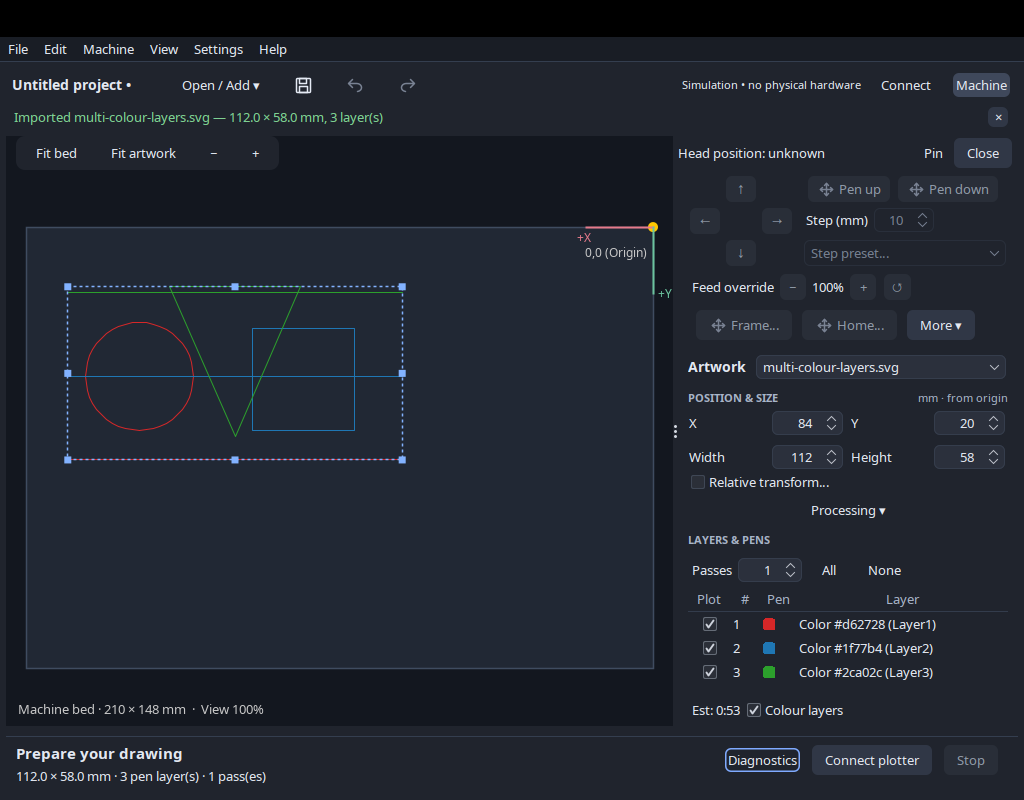
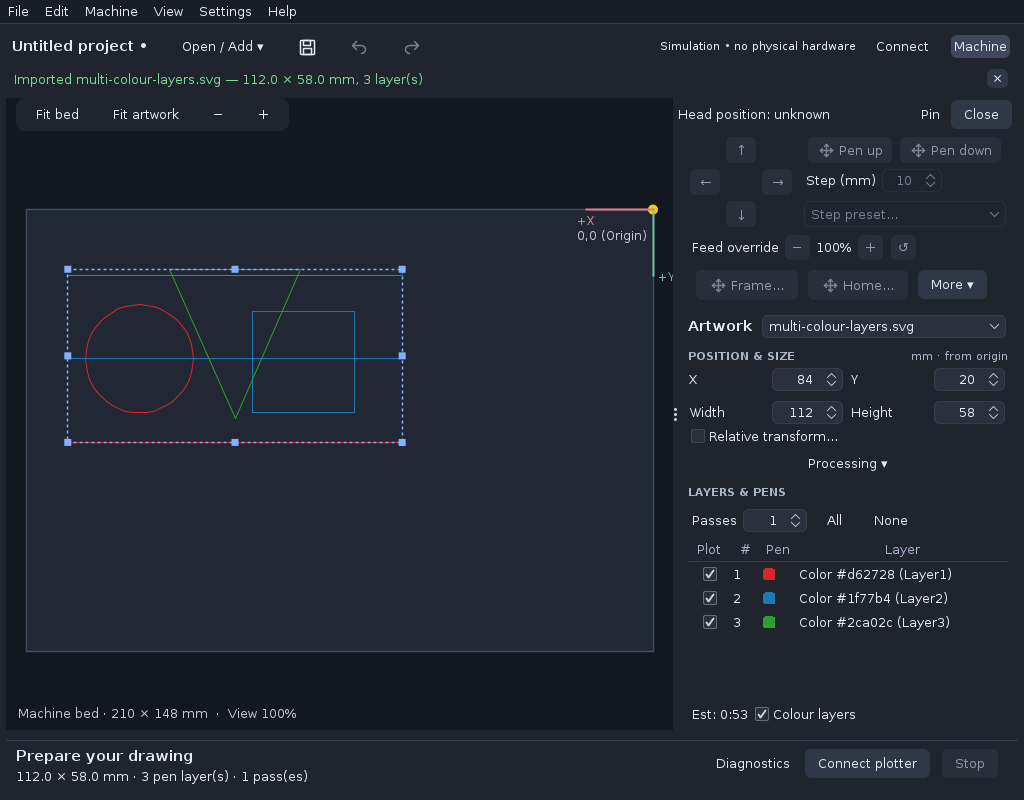
Audit RC11 public docs and refresh workspace screenshots

diff --git a/docs/PROJECT_DIGEST.md b/docs/PROJECT_DIGEST.md
@@ -16,7 +16,7 @@ The project has moved past core capability discovery. The active challenge is ad
 - `docs/FIRST_PLOT.md` — shortest safe path for a new tester.
 - `docs/USER_GUIDE.md` — full operator guide.
 - `docs/TROUBLESHOOTING.md` — serial, GRBL, launch, and first-run failure help.
-- `docs/KNOWN_GOOD_SETUPS.md` — evidence-based compatibility matrix; currently includes Uwe's Uuna Tek A1 H as working, with detailed acceptance fields still pending.
+- `docs/KNOWN_GOOD_SETUPS.md` — evidence-based compatibility matrix; includes a maintainer-reported Uuna Tek A1 H setup, with detailed acceptance fields still pending.
 - `docs/TESTING.md` — automated coverage inventory and manual acceptance scripts.
 - `docs/USABILITY.md` — scoped Beginner Usability milestone, now closed; novice validation remains an adoption-evidence path.
 - `docs/TRACER_CAPTURE_IMPORT.md` — future Tracer JSON capture handoff contract; documents pressure-bearing gesture import without claiming current implementation.
@@ -38,10 +38,11 @@ The Maven reactor contains eight modules:
 - `cli` — headless SVG/image batch conversion and optional G-code output.
 - `app` — Swing GUI, orchestration, persistence, recovery, history, visualization, and help surface.
 
-RC10 completes independent GUI/workflow fixes and retains pen-aware filling,
-coverage previews and calibration profiles. The local build passes 552 Java tests. Release CI verifies
+RC11 stabilizes manual controls and clarifies disabled actions while retaining
+RC10's workflow fixes, pen-aware filling, coverage previews and calibration
+profiles. Its release notes record 554 passing Java tests. Release CI verifies
 Java 17/21, GUI workflows and native Windows/Linux packaging; see the
-[RC10 record](release-results/1.0.0-rc.10.md) for evidence and limitations.
+[RC11 record](release-results/1.0.0-rc.11.md) for evidence and limitations.
 
 ## Roadmap state
 
@@ -54,9 +55,9 @@ Active product roadmap:
 
 Active adoption roadmap:
 
-- Native Windows MSI/Linux DEB releases and portable GUI/CLI JARs are published through GitHub Releases; RC10 is the workflow-verification candidate.
+- Native Windows MSI/Linux DEB releases and portable GUI/CLI JARs are published through GitHub Releases; RC11 is the current candidate.
 - Mock first-plot video, screenshots, offline help and SVG samples ship with the documented workflow.
-- Windows 11 / iDraw H A1 RC2 hardware success is recorded; changed RC10 behavior still needs physical confirmation.
+- Windows 11 / iDraw H A1 RC2 hardware success is recorded; changed RC11 behavior still needs physical confirmation.
 - External tester recruitment, structured novice evidence and additional known-good setups remain adoption work.
 
 ## Documentation health
@@ -72,16 +73,17 @@ Risks:
 
 - There is a lot of documentation. For a new tester, README → FIRST_PLOT must stay the obvious path; everything else should remain secondary.
 - The adoption roadmap contains issue numbers and release details that can drift unless checked after GitHub changes.
-- `docs/KNOWN_GOOD_SETUPS.md` now has Uwe's Uuna Tek A1 H working report, but it should not be marketed as broad compatibility evidence until the detailed acceptance fields and external entries land.
-- Current UI captures are available in [the screenshot gallery](images/README.md).
-  The mock video is available; external novice evidence remains pending.
+- `docs/KNOWN_GOOD_SETUPS.md` has a maintainer-reported Uuna Tek A1 H setup, but it should not be marketed as broad compatibility evidence until detailed acceptance fields and external entries land.
+- RC11 workspace captures and RC10 supporting views are available in
+  [the screenshot gallery](images/README.md). The mock video is available;
+  external novice evidence remains pending.
 - The user guide is comprehensive, but long. If adoption reaches broader public testing, split it into focused pages only after real users show where they get lost.
 - Tracer JSON capture is now documented as a future pressure-bearing import path. Keep it out of current user instructions until implemented and tested.
 
 ## Recommended next work
 
-1. Record human desktop and real-hardware acceptance for `1.0.0-rc.2`.
-   - Fill `release-results/` using the release checklist.
+1. Record human desktop and real-hardware acceptance for `1.0.0-rc.11`.
+   - Add a physical test record using the release checklist.
    - Fill in the remaining fields for the Uuna Tek A1 H entry in `docs/KNOWN_GOOD_SETUPS.md`.
    - Keep hardware readiness language conservative until detailed acceptance evidence exists.
 
@@ -95,12 +97,10 @@ Risks:
    - Treat results as adoption/release evidence, not as a blocker for the already-closed usability milestone.
    - Update `docs/TESTING.md`, `docs/USER_GUIDE.md`, release evidence, and roadmap candidates after the study.
 
-4. Produce the missing adoption assets.
-   - Done: the first committed SVG sample gallery exists for simple line,
-     hatch/fill, multi-colour/layer, and text-outline practice.
-   - Next: one-minute demo GIF/video of launch → guided mock plot → export/plot result.
-   - Done: refreshed welcome, workspace, layer settings, and geometry screenshots.
-   - Later: image/vectorize gallery entries only after validation evidence exists.
+4. Review adoption visuals for RC11.
+   - Done: re-capture empty-document and machine-control states from RC11 CI.
+   - Review the one-minute mock walkthrough against the current workflow.
+   - Add image/vectorize gallery entries after validation evidence exists.
 
 5. Keep roadmap maintenance strict.
    - `ROADMAP.md`: Now / current status only.

diff --git a/ROADMAP.md b/ROADMAP.md
@@ -15,12 +15,14 @@ GRBL cancellation/error handling. Its machine-aware preview also shows ordered
 layers with source pen colours, visibility, and physical nib widths that remain
 constant when artwork is scaled.
 
-Windows/Linux installers are published through GitHub Releases. RC10 verifies and completes independent GUI/workflow fixes, building on RC9’s pen-aware filling. Native installation,
-upgrade, bundled-runtime launch, and persisted state checks pass. Uwe reports
-Windows 11 / iDraw H A1 plotting, stop/alarm recovery, limits and calibration
-working. Remaining desktop checks and post-RC2 hardening are tracked separately. See the
-[current acceptance record](docs/release-results/1.0.0-rc.10.md). Beginner usability
-is closed as described in [`docs/USABILITY.md`](docs/USABILITY.md).
+Windows/Linux installers are published through GitHub Releases. RC11 adds stable
+manual-control layout and clearer unavailable-action feedback to the RC10
+workflow fixes and RC9 pen-aware filling. Native installation, upgrade,
+bundled-runtime launch, and persisted state checks pass in release CI. The
+maintainer reported Windows 11 / iDraw H A1 plotting, stop/alarm recovery,
+limits and calibration on RC2; the changed RC11 behavior still needs physical
+acceptance. See the [current acceptance record](docs/release-results/1.0.0-rc.11.md).
+Beginner usability is closed as described in [`docs/USABILITY.md`](docs/USABILITY.md).
 
 ## Delivery plan
 
@@ -30,7 +32,7 @@ is closed as described in [`docs/USABILITY.md`](docs/USABILITY.md).
 | 2 | Roadmap reconciliation | Active plan is concise; historical phase diary is explicitly deprecated and archived | Complete |
 | 3 | Project/session persistence | `.gantry` files preserve commands, placement, selected layers, passes, and source/vectorizer provenance; command JSON is clearly a flattened interchange export | Complete |
 | 4 | Undo/recovery | Multi-level undo/redo covers model edits; dirty state, close protection, and recovery autosave protect unsaved work | Complete for model/project state and artwork placement edits |
-| 5 | Release readiness | Non-SNAPSHOT version, repeatable release artifacts, checksums, and a recorded acceptance template/workflow | RC2 published; automated installer checks pass; Windows 11 / iDraw H A1 hardware report recorded; remaining desktop checks and post-RC2 hardening pending |
+| 5 | Release readiness | Non-SNAPSHOT version, repeatable release artifacts, checksums, and a recorded acceptance template/workflow | RC11 published; automated installer checks pass; RC2 Windows 11 / iDraw H A1 hardware report recorded; RC11 physical and external-user acceptance pending |
 | 6 | Focused polish | Full SVG colour discovery for hatch overrides, accurate travel accounting/labeling, and vectorizer crop restoration | Complete |
 | 7 | CLI batch artifacts | Post-import optimize, shared config/station mapping, and optional G-code output work headlessly with end-to-end tests | Complete |
 | 8 | Exact-job history | Re-plot uses an immutable prepared-job snapshot; recent successful jobs persist and can be reopened/replotted | Complete |

diff --git a/docs/ADOPTION_ROADMAP.md b/docs/ADOPTION_ROADMAP.md
@@ -34,7 +34,7 @@ Repository evidence at the start of this adoption plan:
   validation rather than a product-roadmap blocker
 
 The main adoption gap is not core capability. It is confidence: can someone who
-is not Uwe download Gantry, understand the safe path, complete a mock plot, and
+is not the maintainer download Gantry, understand the safe path, complete a mock plot, and
 then use either exported G-code or a real GRBL connection without verbal coaching?
 
 ## Positioning
@@ -101,7 +101,7 @@ and notes.
 Prove that one person other than the primary developer can get through Gantry
 with minimal hand-holding.
 
-This can be Uwe plus one external tester, or two external testers if a stricter
+This can be the maintainer plus one external tester, or two external testers if a stricter
 bar is desired.
 
 ### Product and code work
@@ -151,7 +151,7 @@ Suggested outreach text:
 
 ### Exit criteria
 
-- One person other than Uwe launches a release artifact without cloning/building.
+- One person other than the maintainer launches a release artifact without cloning/building.
 - They complete the guided mock practice.
 - Ideally they complete one real plot or produce usable G-code.
 - At least five concrete friction points are captured.
@@ -224,7 +224,7 @@ Suggested public text:
 - 10 people launch Gantry.
 - At least 7 complete the guided mock practice.
 - At least 3 complete a real plot or usable G-code export.
-- At least 5 concrete issues or feedback notes come from people other than Uwe.
+- At least 5 concrete issues or feedback notes come from people other than the maintainer.
 - README and troubleshooting reflect actual support questions.
 - No severe safety issue appears.
 
@@ -388,7 +388,7 @@ external people, or media production.
 8. **Done:** Add serial-permission and GRBL-alarm troubleshooting.
 9. **Done:** Publish a reproducible one-minute mock demo video — originally tracked in
    [#18](https://github.com/utrost/Gantry/issues/18).
-10. **Started:** Start the compatibility matrix from real tester reports. Uwe's
+10. **Started:** Start the compatibility matrix from real tester reports. The maintainer's
     Uuna Tek A1 H plotter is recorded as working; detailed acceptance evidence
     and external entries are still needed.
 
@@ -396,7 +396,7 @@ Additional support hardening now tracked in
 [#17](https://github.com/utrost/Gantry/issues/17).
 
 Native MSI/DEB candidates and portable JARs are published. Current delivery and
-validation are recorded in the [RC10 record](release-results/1.0.0-rc.10.md).
+validation are recorded in the [RC11 record](release-results/1.0.0-rc.11.md).
 
 ## Operating rhythm
 

diff --git a/docs/DOCUMENTATION_STATUS.md b/docs/DOCUMENTATION_STATUS.md
@@ -1,8 +1,13 @@
-# Documentation status — RC10, 2026-11-14
+# Documentation status — RC11, 2026-11-15
 
-The active guides, offline installer help, screenshots and mock walkthrough have
-been reviewed against the RC10 implementation. Current validation is recorded in
-[the RC10 release record](release-results/1.0.0-rc.10.md).
+The public entry points, release links, offline help links and screenshot
+references were checked against RC11. Current validation is recorded in
+[the RC11 release record](release-results/1.0.0-rc.11.md). A full human review of
+every operator-guide instruction remains open.
+The core workspace-state captures were refreshed from the successful RC11 CI
+GUI artifact on 2026-11-15. Import, historical-review, setup, settings and fill
+captures and the mock walkthrough were generated from RC10 on 2026-11-14; they
+do not show RC11's changed control states.
 
 | Area | Current documentation |
 |---|---|
@@ -10,12 +15,12 @@ been reviewed against the RC10 implementation. Current validation is recorded in
 | Daily operation | USER_GUIDE, SAMPLE_GALLERY, TROUBLESHOOTING; Dark default and visible disabled actions |
 | Pen-aware filling | Effective width/overlap, physical scale, boundary inset, coverage preview, profiles and calibration |
 | Developer reference | ARCHITECTURE, TESTING, REFACTORING and PROJECT_DIGEST |
-| Release and adoption | ROADMAP, ADOPTION_ROADMAP, RELEASE_CHECKLIST and RC10 notes/results |
-| Current visuals | All published PNGs under images/ regenerated from actual Swing components; settings and fill views added |
+| Release and adoption | ROADMAP, ADOPTION_ROADMAP, RELEASE_CHECKLIST and RC11 notes/results |
+| Visuals | Core workspace states refreshed from RC11 CI; other views and mock video remain RC10 captures |
 | Historical evidence | Dated prior release/test records retain their original observations; they are not current acceptance claims |
 | Future work | TRACER_CAPTURE_IMPORT remains a proposed handoff contract |
 
 The [image gallery](images/README.md) describes provenance and reproduction.
 The mock demo contains no hardware motion. Earlier Windows 11 / iDraw H A1
-reports do not establish physical acceptance of RC10. Pen/paper swatch evaluation,
+reports do not establish physical acceptance of RC11. Pen/paper swatch evaluation,
 external novice/expert studies and broader hardware coverage require operators.

diff --git a/docs/KNOWN_GOOD_SETUPS.md b/docs/KNOWN_GOOD_SETUPS.md
@@ -10,12 +10,12 @@ example, a pen-plot acceptance run does not prove watercolor station behavior.
 ## Windows 11 — iDraw H A1 (RC2)
 
 - Date: 2026-10-04
-- Tester: Uwe (direct user report)
+- Tester: the maintainer (direct user report)
 - Gantry: published `v1.0.0-rc.2`, Windows x64 MSI, bundled Java 21
 - Operating system: Windows 11
 - Plotter: iDraw H A1
 - Reported working: physical plotting, stop/alarm recovery, limits, calibration.
-- Result: passed for those workflows on this configuration, as reported by Uwe.
+- Result: passed for those workflows on this configuration, as reported by the maintainer.
 - Not individually reported: serial enumeration/connect-disconnect, homing/jog,
   framing, offline-help/browser shortcuts, standard-user install context, and
   watercolor station/wet/refill behavior. Controller firmware, baud rate, origin,
@@ -58,14 +58,14 @@ example, a pen-plot acceptance run does not prove watercolor station behavior.
 - Linked release result or issue:
 ```
 
-## Uwe primary setup — Uuna Tek A1 H plotter
+## Maintainer-reported setup — Uuna Tek A1 H plotter
 
-Gantry has been reported working on this hardware by Uwe. This is the first
+Gantry has been reported working on this hardware by the maintainer. This is the first
 real-hardware compatibility entry, but the detailed release-acceptance checklist
 still needs to be filled before making broad hardware-readiness claims.
 
 - Date: 2026-08-17
-- Tester: Uwe
+- Tester: the maintainer
 - Gantry version or commit: `29f5c03`
 - Operating system: Linux 6.8.0-136-generic x86_64 GNU/Linux
 - Java version: OpenJDK 17.0.19
@@ -87,7 +87,7 @@ still needs to be filled before making broad hardware-readiness claims.
   - [ ] small real pen plot
   - [ ] watercolor station dry visit
   - [ ] watercolor wet/refill job
-- Result: Gantry works on this hardware per Uwe's report.
+- Result: Gantry works on this hardware per the maintainer's report.
 - Caveats: detailed acceptance evidence, controller/GRBL version, travel,
   origin, pen mode, and exact tested workflow list are still pending.
 - Linked release result or issue: [#15](https://github.com/utrost/Gantry/issues/15)

diff --git a/docs/images/README.md b/docs/images/README.md
@@ -1,10 +1,14 @@
-# Current Gantry screenshots — RC10
+# Gantry screenshots — RC11 workspace, RC10 supporting views
 
-All current PNGs in this directory were regenerated on 2026-11-14 from actual
-Swing components on Linux / Java 17. Dark is the default; Light remains available.
-Canvas appearance is independent. The captures use isolated mock profiles; no
-physical plotter was connected. Native window borders are excluded where root
-panes are captured. Nothing here is an AI-generated UI mockup.
+The core `workspace/` state images were refreshed on 2026-11-15 from the successful
+[RC11 Java 21 GUI acceptance artifact](https://github.com/utrost/Gantry/actions/runs/43643382775)
+on Ubuntu. Import, historical-review, saved-result, setup, settings and fill
+images were generated on 2026-11-14
+from actual RC10 Swing components on Linux / Java 17. Dark is the default;
+Light remains available. Canvas appearance is independent. The captures use
+isolated mock profiles; no physical plotter was connected. Native window borders
+are excluded where root panes are captured. Nothing here is an AI-generated UI
+mockup. The RC10 supporting views do not show RC11's changed control states.
 
 ## Daily workspace
 
@@ -54,7 +58,7 @@ mvn package
 ./scripts/record-demo.sh dist/demo
 ```
 
-The capture script refreshes all current screenshots. The demo script requires
+The capture script refreshes the screenshot set. The demo script requires
 ffmpeg and produces the captioned one-minute mock video. Both use temporary
 profiles and application rendering rather than desktop capture. Inspect generated
 images before committing. The full scale/density acceptance matrix is separate:

diff --git a/docs/release-results/1.0.0-rc.11.md b/docs/release-results/1.0.0-rc.11.md
@@ -1,0 +1,28 @@
+# RC11 validation — 2026-11-15
+
+RC11 is a published prerelease. It stabilizes the manual-control layout and
+disables Frame and plot-review actions when the required artwork is absent.
+See the [release notes](../release-notes/1.0.0-rc.11.md) and
+[published assets](https://github.com/utrost/Gantry/releases/tag/v1.0.0-rc.11).
+
+## Automated evidence
+
+- The [CI run](https://github.com/utrost/Gantry/actions/runs/43643382775)
+  completed successfully on the RC11 commit `c630f27`; the release notes record
+  554 passing Java tests and desktop mock-workflow/regression coverage.
+- The [release-installer run](https://github.com/utrost/Gantry/actions/runs/43643388431)
+  completed successfully on the same commit. It builds native Windows and Linux
+  packages and runs installation, upgrade and installed-workflow checks.
+- The published prerelease contains a Windows x64 MSI, Linux x64 DEB, portable
+  GUI and CLI JARs, offline documentation ZIP, standalone README, license,
+  version file and checksums.
+
+## Acceptance limits
+
+- The automated GUI workflow uses a mock plotter. It does not establish physical
+  Windows 11 / iDraw H A1 acceptance of the RC11 control changes.
+- The core workspace screenshots were refreshed from the RC11 GUI CI artifact
+  on 2026-11-15. Supporting screenshots and the mock walkthrough were captured
+  from RC10 on 2026-11-14, and do not show RC11's changed control states.
+- Windows installers remain unsigned. External novice/expert testing, broader
+  hardware coverage and physical pen/paper evaluation remain open.

diff --git a/release-results/1.0.0-rc.2.md b/release-results/1.0.0-rc.2.md
@@ -68,7 +68,7 @@ migration from earlier unpublished machine-wide CI installers is not claimed.
 
 ## Reported physical acceptance (2026-10-04)
 
-Uwe reports RC2 working on Windows 11 with an iDraw H A1, explicitly confirming
+the maintainer reports RC2 working on Windows 11 with an iDraw H A1, explicitly confirming
 stop/alarm recovery, limits, calibration, and actual plotting. This is
 user-reported acceptance for that configuration, without attached machine logs.
 See the [known-good setup](../docs/KNOWN_GOOD_SETUPS.md) for scope and unreported
@@ -79,7 +79,7 @@ checks. Post-RC2 safety changes are not covered by this report.
 - [ ] Windows 10/11 desktop menu/browser launch, standard-user installation and guided first plot.
 - [ ] Ubuntu desktop menu launch and guided first plot.
 - [ ] Mouse/keyboard SVG/raster import, mock plot and G-code export in the installed GUI.
-- [x] Windows 11 / iDraw H A1: stop/alarm recovery, limits, calibration, actual plotting (Uwe report).
+- [x] Windows 11 / iDraw H A1: stop/alarm recovery, limits, calibration, actual plotting (the maintainer report).
 - [ ] Individually record serial enumeration, connect/disconnect, homing/jog,
   framing, pen-lift behavior and travel speed; these were not itemized in the report.
 - [ ] Watercolor dry/wet/refill checks if that hardware readiness is claimed.

diff --git a/docs/RELEASE_CHECKLIST.md b/docs/RELEASE_CHECKLIST.md
@@ -3,7 +3,8 @@
 ## Build and stage a candidate
 
 1. Use `MAJOR.MINOR.PATCH-rc.N` (RC 1–98) or `MAJOR.MINOR.PATCH`. Preserve
-   published tags. This delivery targets `1.0.0-rc.10`.
+   published tags. For the current candidate and evidence, see
+   [the documentation status](DOCUMENTATION_STATUS.md).
 2. Write `docs/release-notes/<version>.md` and a truthful acceptance record in
    `docs/release-results/<version>.md`.
 3. Run `python scripts/test_release.py` and
@@ -119,7 +120,7 @@ hashes are attached to CI as `validation-<runner>` artifacts. Inspect
 `upgrade-result.json`, `seed.json`, and `verify.json`; a green unit test suite
 alone does not establish that an upgrade was attempted or completed.
 
-## RC10 workflow and documentation checks
+## RC10 workflow and documentation checks (historical)
 
 - Refresh every current screenshot in `docs/images`, settings views, the mock
   walkthrough and offline help; keep historical evidence dated.

diff --git a/docs/release-results/gui-workflow-implementation.md b/docs/release-results/gui-workflow-implementation.md
@@ -50,7 +50,7 @@ Additional regression tests cover manual cancellation races, durable disconnecte
 
 - Windows 11 native installer and 100%/125%/150%/200% DPI checks.
 - iDraw H A1 checks of changed jog, focus-loss, Stop, homing, calibration and disconnect interactions.
-- Uwe's expert workflow evaluation against the original benchmark.
+- the maintainer's expert workflow evaluation against the original benchmark.
 - The five-participant novice study tracked by #16.
 
 No physical hardware acceptance, novice-study result, native Windows acceptance, or new published installer is claimed by this record. Keep #54 and #16 open until the corresponding evidence exists. The previous audit evidence bundle remains local.

diff --git a/docs/release-notes/1.0.0-rc.11.md b/docs/release-notes/1.0.0-rc.11.md
@@ -16,3 +16,4 @@ Windows x64 MSI and Linux x64 DEB include Java. Portable GUI/CLI JARs, offline d
 Local validation: 554 Java tests passed; the desktop mock workflow verifies empty-document action availability and recovery after loading artwork. Regression tests cover stable canvas space during manual operations and busy-control transitions. Release CI runs native Windows/Linux installation and upgrade checks from RC10.
 
 Physical Windows 11/iDraw H A1 verification of the changed interactions remains outstanding; mock checks do not establish hardware acceptance.
+See the [RC11 validation record](../release-results/1.0.0-rc.11.md) for CI links and the remaining visual and manual checks.

diff --git a/docs/release-results/1.0.0-rc.10.md b/docs/release-results/1.0.0-rc.10.md
@@ -40,6 +40,6 @@ These issues remain open: [#16](https://github.com/utrost/Gantry/issues/16)
 (Windows 11/iDraw H A1 manual interactions),
 [#43](https://github.com/utrost/Gantry/issues/43) (native display scaling),
 [#54](https://github.com/utrost/Gantry/issues/54) (external acceptance including
-Uwe's expert benchmark), and [#33](https://github.com/utrost/Gantry/issues/33)
+the maintainer's expert benchmark), and [#33](https://github.com/utrost/Gantry/issues/33)
 (their umbrella). Earlier RC2 hardware success does not establish acceptance of
 these changed interactions. No physical plotter or participant result is claimed.
